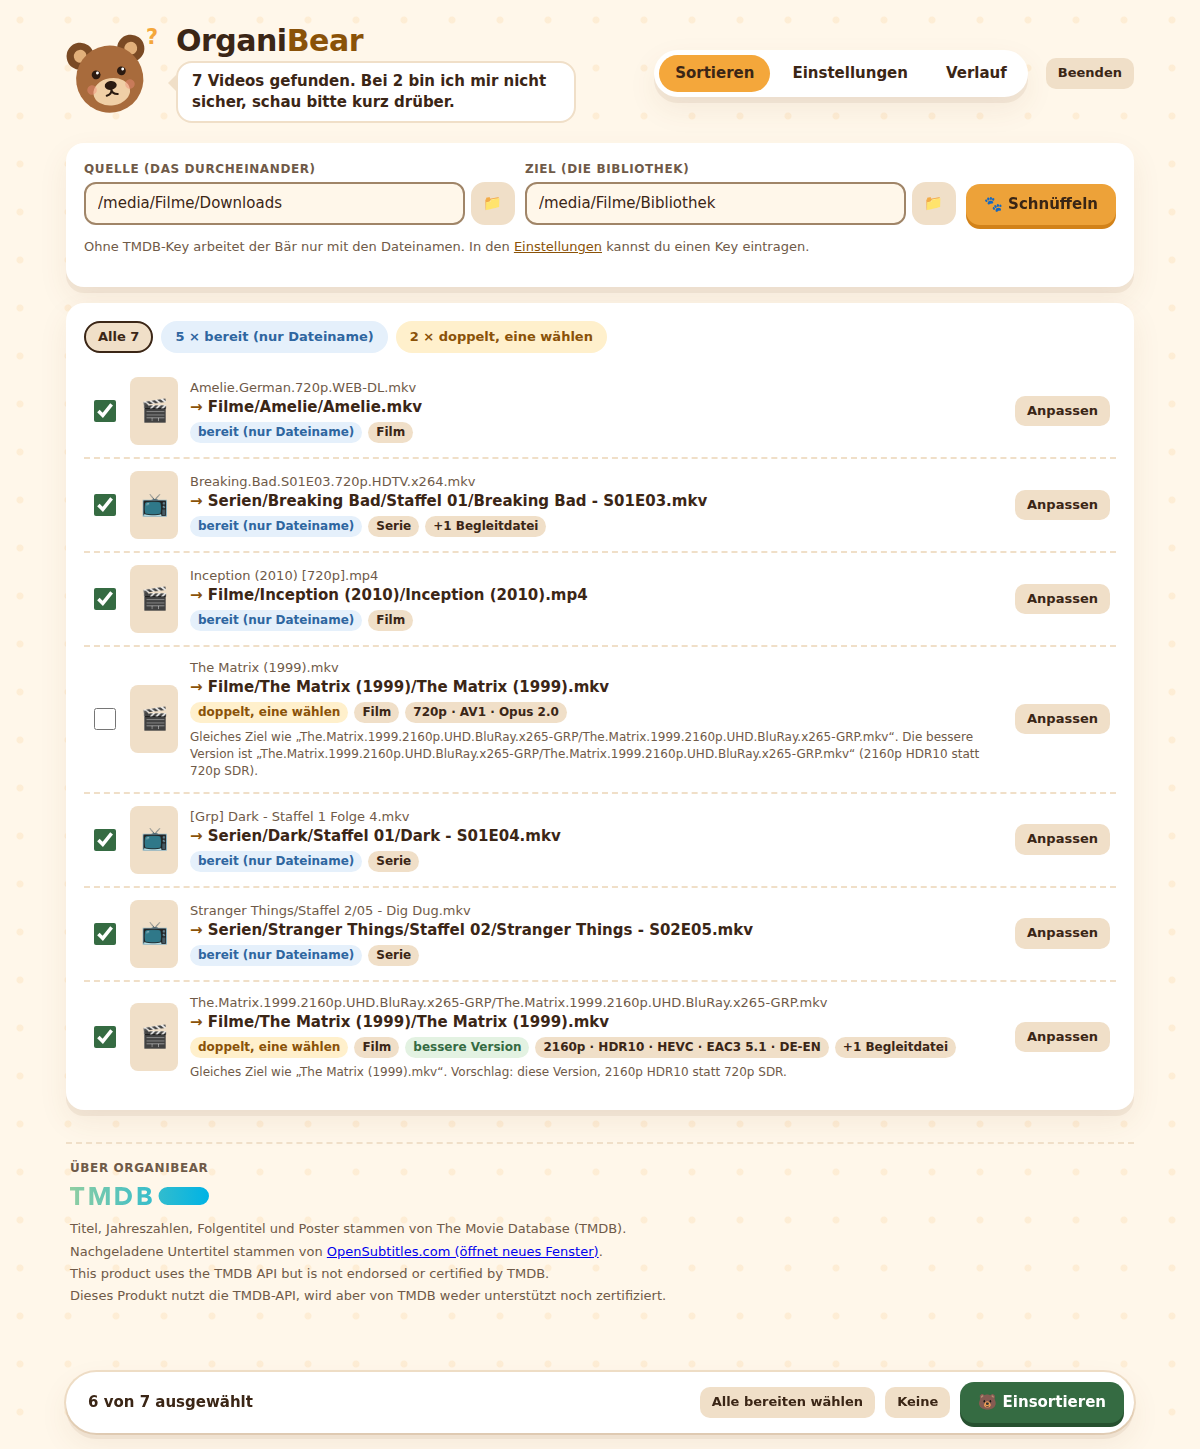
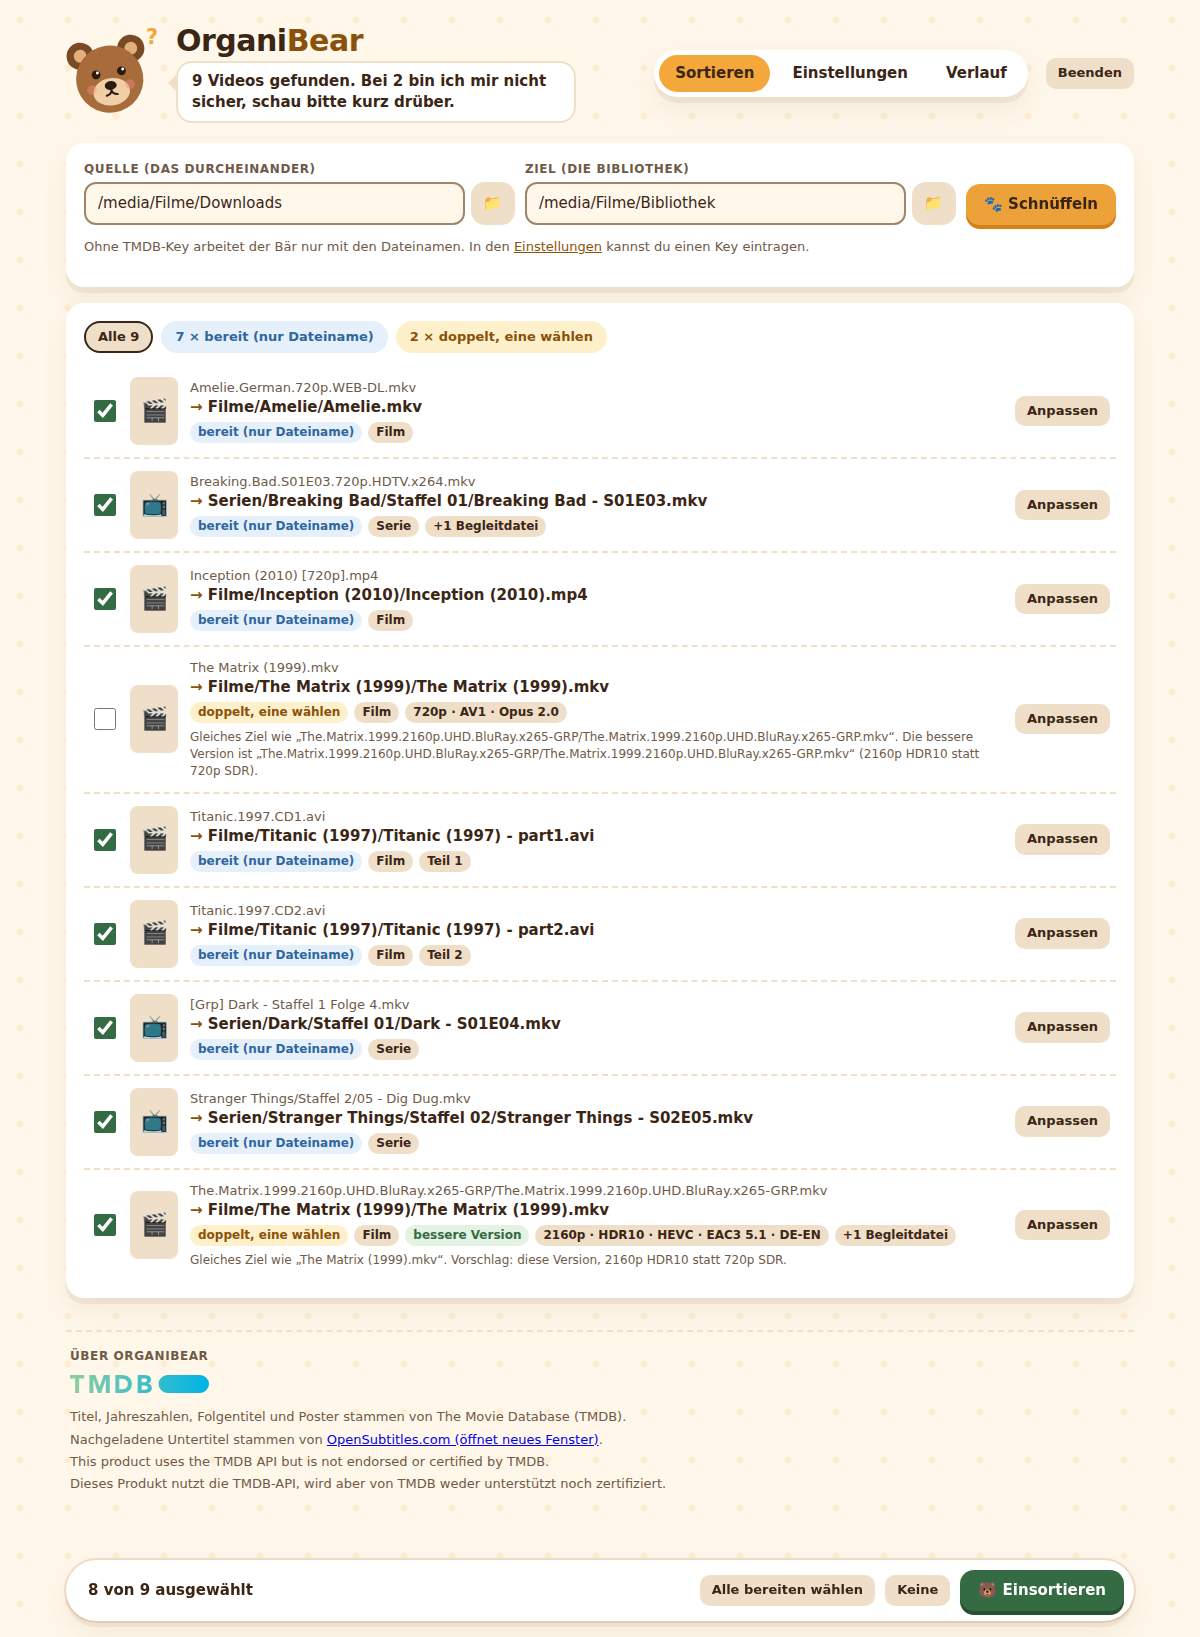
Mehrteilige Filme (CD1/CD2, part1/part2) erkennen statt als Duplikat melden (#18)
Teilangaben im Namen (cd, disc, pt; part/teil hinter dem Jahr) werden
erkannt. Jeder Teil bekommt " - partN" am Dateinamen, neuer Platzhalter
{part}. NFO und Bilder teilen sich die Teile.

Closes #16

Claude-Session: https://claude.ai/code/session_01821xLD15Pix4i9MNryRkKJ

Changed region(s): [[0.0308, 0.0, 0.9558, 0.9938], [0.4933, 0.9317, 0.9558, 0.9938]]

diff --git a/web/index.html b/web/index.html
@@ -801,7 +801,7 @@ function itemHTML(it) {
       <div class="new" id="new-${it.id}"><span class="arrow" aria-hidden="true">→ </span><span class="sr-only">Neu: </span>${esc(it.rel_target || "?")}</div>
       <div class="meta" id="st-${it.id}">
         <span class="tag s-${it.status}">${STATUS[it.status]}</span>
-        <span class="tag s-neutral">${info.series ? "Serie" : "Film"}</span>
+        <span class="tag s-neutral">${info.series ? "Serie" : "Film"}</span>${info.part && !info.series ? `<span class="tag s-neutral">Teil ${info.part}</span>` : ""}
         ${better}${media}${comps}${extras}${subs}${action}
         ${it.message ? `<span class="msg">${esc(it.message)}</span>` : ""}
       </div>

diff --git a/parse.go b/parse.go
@@ -17,6 +17,7 @@ type Parsed struct {
 	EpisodeEnd   int    `json:"episode_end,omitempty"`
 	EpisodeTitle string `json:"episode_title,omitempty"`
 	Resolution   string `json:"resolution,omitempty"`
+	Part         int    `json:"part,omitempty"` // Teil eines mehrteiligen Films (CD1, part2 …)
 }
 
 var (
@@ -31,7 +32,30 @@ var (
 	reSpaces     = regexp.MustCompile(`\s+`)
 	reSeasonDir  = regexp.MustCompile(`(?i)^(?:season|staffel|s)[ ._-]*(\d{1,2})$`)
 	reEpOnly     = regexp.MustCompile(`(?i)(?:^|\b(?:e|ep|episode|folge) ?)(\d{1,3})\b`)
+	// Teile eines Films. "cd", "disc" und "pt" sind eindeutig, "part"
+	// und "teil" nur hinter der Jahreszahl ("Harry Potter … Part 1 (2010)" ist ein Titel).
+	rePartSure  = regexp.MustCompile(`(?i)\b(?:cd|dis[ck]|pt)[ -]?(\d{1,2})\b`)
+	rePartMaybe = regexp.MustCompile(`(?i)\b(?:part|teil)[ -]?(\d{1,2})\b`)
 )
+
+// cutPart sucht eine Teilangabe, entfernt sie aus s und liefert die Nummer.
+// after ist die Position, ab der auch "part"/"teil" zählen (-1: nie).
+func cutPart(s string, after int) (string, int) {
+	m := rePartSure.FindStringSubmatchIndex(s)
+	if m == nil && after >= 0 {
+		if mm := rePartMaybe.FindStringSubmatchIndex(s); mm != nil && mm[0] >= after {
+			m = mm
+		}
+	}
+	if m == nil {
+		return s, 0
+	}
+	n, _ := strconv.Atoi(s[m[2]:m[3]])
+	if n == 0 {
+		return s, 0
+	}
+	return strings.TrimSpace(reSpaces.ReplaceAllString(s[:m[0]]+" "+s[m[1]:], " ")), n
+}
 
 // normalize ersetzt Punkte und Unterstriche durch Leerzeichen und entfernt
 // führende Release-Gruppen wie "[Gruppe]".
@@ -108,7 +132,13 @@ func ParseName(name string) Parsed {
 		return p
 	}
 
-	// Film: Titel steht vor dem (letzten) Jahr
+	// Film: Teilangabe (CD1, part2 …) heraustrennen, dann steht der Titel vor
+	// dem (letzten) Jahr.
+	after := -1
+	if y := lastYear(s); y != nil {
+		after = y[1]
+	}
+	s, p.Part = cutPart(s, after)
 	if y := lastYear(s); y != nil {
 		p.Year, _ = strconv.Atoi(s[y[2]:y[3]])
 		p.Title = cleanTitle(s[:y[0]])
@@ -170,7 +200,7 @@ func ParsePath(path string) Parsed {
 		if res == "" {
 			res = d.Resolution
 		}
-		p = Parsed{Title: d.Title, Year: d.Year, Resolution: res}
+		p = Parsed{Title: d.Title, Year: d.Year, Resolution: res, Part: p.Part}
 	}
 	return p
 }

diff --git a/parse_test.go b/parse_test.go
@@ -26,6 +26,14 @@ func TestParsePath(t *testing.T) {
 		{"Stranger Things/Staffel 2/05 - Dig Dug.mkv", Parsed{Title: "Stranger Things", Series: true, Season: 2, Episode: 5}},
 		{"Inception (2010)/inception-hd.mkv", Parsed{Title: "Inception", Year: 2010}},
 		{"Filme/Arrival.2016.1080p/arrival.mkv", Parsed{Title: "Arrival", Year: 2016, Resolution: "1080p"}},
+		{"Titanic.1997.CD1.avi", Parsed{Title: "Titanic", Year: 1997, Part: 1}},
+		{"Titanic (1997) - cd 2.avi", Parsed{Title: "Titanic", Year: 1997, Part: 2}},
+		{"Der.Untergang.2004.German.Teil2.mkv", Parsed{Title: "Der Untergang", Year: 2004, Part: 2}},
+		{"Kill Bill Disc 2.mkv", Parsed{Title: "Kill Bill", Part: 2}},
+		{"Titanic (1997)/pt1.avi", Parsed{Title: "Titanic", Year: 1997, Part: 1}},
+		{"Harry.Potter.and.the.Deathly.Hallows.Part.1.2010.1080p.mkv", Parsed{Title: "Harry Potter and the Deathly Hallows Part 1", Year: 2010, Resolution: "1080p"}},
+		{"Lola.rennt.1998.German.DVDRip.XviD-CiA.avi", Parsed{Title: "Lola rennt", Year: 1998}},
+		{"Das.Boot.1981.DVD9.mkv", Parsed{Title: "Das Boot", Year: 1981}},
 	}
 	for _, tt := range tests {
 		got := ParsePath(filepath.FromSlash(tt.in))
@@ -49,6 +57,9 @@ func TestRenderTemplate(t *testing.T) {
 		{cfg.SeriesTemplate, MediaInfo{Title: "Doctor Who", Year: 2005, Series: true, Season: 2, Episode: 1, EpisodeEnd: 2, EpisodeTitle: "A/B?"}, "Serien/Doctor Who (2005)/Staffel 02/Doctor Who - S02E01-E02 - A-B"},
 		{"{first_letter}/{title} [{resolution}]", MediaInfo{Title: "The Matrix", Resolution: "1080p"}, "M/The Matrix [1080p]"},
 		{"{title}/../../etc/{title}", MediaInfo{Title: ".."}, "etc"},
+		{cfg.MovieTemplate, MediaInfo{Title: "Titanic", Year: 1997, Part: 2}, "Filme/Titanic (1997)/Titanic (1997) - part2"},
+		{"{title} [{part}]", MediaInfo{Title: "Titanic", Part: 1}, "Titanic [part1]"},
+		{"{title} [{part}]", MediaInfo{Title: "Titanic"}, "Titanic"},
 	}
 	for _, tt := range tests {
 		if got := RenderTemplate(tt.tmpl, tt.info); got != filepath.FromSlash(tt.want) {

diff --git a/template.go b/template.go
@@ -24,11 +24,12 @@ type MediaInfo struct {
 	HDR           string `json:"hdr,omitempty"`       // DV, HDR10, HLG
 	Audio         string `json:"audio,omitempty"`     // Haupttonspur, z. B. "TrueHD 7.1"
 	Languages     string `json:"languages,omitempty"` // Tonspur-Sprachen, z. B. "DE-EN"
+	Part          int    `json:"part,omitempty"`      // Teil eines mehrteiligen Films
 	TMDBID        int    `json:"tmdb_id,omitempty"`
 }
 
 // Placeholders listet alle Platzhalter für die Hilfe im Webinterface.
-var Placeholders = []string{"title", "original_title", "year", "season", "episode", "episode_title", "resolution", "vcodec", "hdr", "audio", "languages", "tmdb_id", "first_letter"}
+var Placeholders = []string{"title", "original_title", "year", "season", "episode", "episode_title", "resolution", "vcodec", "hdr", "audio", "languages", "part", "tmdb_id", "first_letter"}
 
 var rePlaceholder = regexp.MustCompile(`\{([a-z_]+)(?::(\d+))?\}`)
 
@@ -46,6 +47,14 @@ func CheckTemplate(tmpl string) error {
 		}
 	}
 	return nil
+}
+
+// partName ist die Teilbezeichnung, die alle Mediaserver verstehen.
+func partName(n int) string {
+	if n <= 0 {
+		return ""
+	}
+	return fmt.Sprintf("part%d", n)
 }
 
 func pad(n, width int) string {
@@ -93,6 +102,8 @@ func RenderTemplate(tmpl string, info MediaInfo) string {
 			return sanitize(info.Audio)
 		case "languages":
 			return sanitize(info.Languages)
+		case "part":
+			return partName(info.Part)
 		case "tmdb_id":
 			return pad(info.TMDBID, width)
 		case "first_letter":
@@ -114,6 +125,11 @@ func RenderTemplate(tmpl string, info MediaInfo) string {
 		if seg = cleanSegment(seg); seg != "" {
 			parts = append(parts, seg)
 		}
+	}
+	// Mehrteilige Filme: Steht {part} nicht in der Vorlage, kommt " - part1"
+	// an den Dateinamen. So erkennen Plex, Jellyfin und Kodi die Teile.
+	if info.Part > 0 && len(parts) > 0 && !strings.Contains(tmpl, "{part") {
+		parts[len(parts)-1] += " - " + partName(info.Part)
 	}
 	return filepath.Join(parts...)
 }

diff --git a/organize_test.go b/organize_test.go
@@ -3,6 +3,7 @@ package main
 import (
 	"context"
 	"encoding/json"
+	"fmt"
 	"net/http"
 	"net/http/httptest"
 	"os"
@@ -283,5 +284,27 @@ func TestBetterReason(t *testing.T) {
 	b.Size = a.Size - 1
 	if best, _ := suggestBest([]*Item{b, a}); best != nil {
 		t.Error("fast gleich große Dateien sollten keinen Vorschlag bekommen")
+	}
+}
+
+func TestMultiPartMovie(t *testing.T) {
+	tmp := t.TempDir()
+	src, dst := filepath.Join(tmp, "in"), filepath.Join(tmp, "out")
+	touch(t, src, "Titanic.1997.CD1.avi", "Titanic.1997.CD2.avi", "Titanic.1997.CD1.srt", "Titanic.1997.CD2.srt")
+	cfg := DefaultConfig()
+	cfg.SourceDir, cfg.TargetDir = src, dst
+	items, err := Scan(context.Background(), cfg, NewTMDB("", "de-DE"))
+	if err != nil || len(items) != 2 {
+		t.Fatalf("%v %d", err, len(items))
+	}
+	for i, it := range items {
+		n := fmt.Sprint(i + 1)
+		want := filepath.FromSlash("Filme/Titanic (1997)/Titanic (1997) - part" + n + ".avi")
+		if it.Status != StatusOffline || it.RelTarget != want {
+			t.Errorf("Teil %s: %q %q (%s)", n, it.Status, it.RelTarget, it.Message)
+		}
+		if len(it.Companions) != 1 || !strings.HasSuffix(it.Companions[0].Target, "Titanic (1997) - part"+n+".srt") {
+			t.Errorf("Untertitel zu Teil %s: %+v", n, it.Companions)
+		}
 	}
 }

diff --git a/extras_test.go b/extras_test.go
@@ -181,3 +181,33 @@ func TestRefreshServers(t *testing.T) {
 		t.Errorf("ohne Server: %v", msgs)
 	}
 }
+
+func TestExtrasMultiPart(t *testing.T) {
+	tmp := t.TempDir()
+	src, dst := filepath.Join(tmp, "in"), filepath.Join(tmp, "out")
+	touch(t, src, "The.Matrix.1999.CD1.mkv", "The.Matrix.1999.CD2.mkv")
+	cfg := DefaultConfig()
+	cfg.SourceDir, cfg.TargetDir, cfg.TMDBKey = src, dst, "testkey"
+	cfg.Extras.NFO = true
+	db := fakeTMDB(t)
+	ctx := context.Background()
+	items, err := Scan(ctx, cfg, db)
+	if err != nil || len(items) != 2 {
+		t.Fatalf("%v %d", err, len(items))
+	}
+	extras := func(it *Item) ([]string, []string) { return WriteExtras(ctx, cfg, db, it) }
+	j, _, err := Apply(cfg, items, map[int]bool{items[0].ID: true, items[1].ID: true}, filepath.Join(tmp, "verlauf"), extras)
+	if err != nil || len(j.Warnings) > 0 {
+		t.Fatalf("%v %v", err, j.Warnings)
+	}
+	dir := filepath.Join(dst, "Filme", "Matrix (1999)")
+	entries, _ := os.ReadDir(dir)
+	var names []string
+	for _, e := range entries {
+		names = append(names, e.Name())
+	}
+	// Eine gemeinsame NFO ohne Teilangabe, dazu beide Teile.
+	if strings.Join(names, "|") != "Matrix (1999) - part1.mkv|Matrix (1999) - part2.mkv|Matrix (1999).nfo" {
+		t.Errorf("Inhalt: %v", names)
+	}
+}

diff --git a/extras.go b/extras.go
@@ -214,6 +214,12 @@ func WriteExtras(ctx context.Context, cfg Config, db *TMDB, it *Item) (created, 
 	base := strings.TrimSuffix(it.Target, filepath.Ext(it.Target))
 
 	if !it.Info.Series {
+		// Mehrteilige Filme teilen sich NFO und Bilder: Name ohne Teilangabe.
+		if it.Info.Part > 0 {
+			whole := it.Info
+			whole.Part = 0
+			base = filepath.Join(dst, RenderTemplate(cfg.MovieTemplate, whole))
+		}
 		if x.NFO {
 			w.nfo(base+".nfo", movieNFO(it.Info, meta))
 		}

diff --git a/organize.go b/organize.go
@@ -171,7 +171,7 @@ func infoFromParsed(p Parsed) MediaInfo {
 	return MediaInfo{
 		Title: p.Title, Year: p.Year, Series: p.Series, Season: p.Season,
 		Episode: p.Episode, EpisodeEnd: p.EpisodeEnd, EpisodeTitle: p.EpisodeTitle,
-		Resolution: p.Resolution,
+		Resolution: p.Resolution, Part: p.Part,
 	}
 }
 

diff --git a/README.md b/README.md
@@ -13,7 +13,7 @@ in eine ordentliche Bibliothek.
 ## Was er kann
 
 - **Ein einziges Programm.** Starten, der Browser öffnet sich, fertig. Keine Installation, keine Abhängigkeiten.
-- **Versteht viele Namensmuster:** `S01E02`, `1x02`, `Staffel 1 Folge 2`, Doppelfolgen (`S02E01E02`), Release-Gruppen, Qualitätsangaben, Jahreszahlen im Titel (`Blade Runner 2049 (2017)`), Ordnernamen wie `Serie/Staffel 2/05.mkv`.
+- **Versteht viele Namensmuster:** `S01E02`, `1x02`, `Staffel 1 Folge 2`, Doppelfolgen (`S02E01E02`), Release-Gruppen, Qualitätsangaben, Jahreszahlen im Titel (`Blade Runner 2049 (2017)`), Ordnernamen wie `Serie/Staffel 2/05.mkv`, mehrteilige Filme (`Titanic.1997.CD1.avi` wird zu `Titanic (1997) - part1.avi`).
 - **Metadaten von TMDB:** richtiger Titel in deiner Sprache, Jahr und Folgentitel. Bei Unsicherheit wählst du aus den Treffern, suchst selbst oder trägst die Daten von Hand ein. Ohne API-Key arbeitet er nur mit den Dateinamen.
 - **Eigene Namensvorlagen** für Filme und Serien, mit Live-Vorschau.
 - **Dateiregeln:** Du legst fest, welche Dateiendungen Videos und welche Begleitdateien sind (Untertitel, NFO, Bilder …) und ob sie verschoben, kopiert oder ignoriert werden. Begleitdateien bekommen den neuen Namen ihres Videos (`Film (2010).de.srt`).
@@ -110,6 +110,7 @@ samt Klammern und Strichen.
 | `{hdr}` | `DV` (Dolby Vision), `HDR10` oder `HLG`, bei SDR leer |
 | `{audio}` | Haupttonspur, z. B. `TrueHD 7.1` oder `EAC3 5.1` |
 | `{languages}` | Sprachen der Tonspuren, z. B. `DE-EN` |
+| `{part}` | Teil eines mehrteiligen Films, z. B. `part1`. Fehlt er in der Vorlage, hängt der Bär ` - part1` an den Dateinamen |
 | `{tmdb_id}` | TMDB-ID |
 | `{first_letter}` | Anfangsbuchstabe ohne Artikel, z. B. `M` für „The Matrix“ |
 
